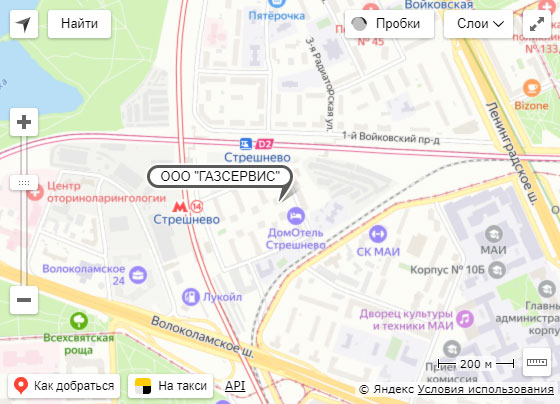
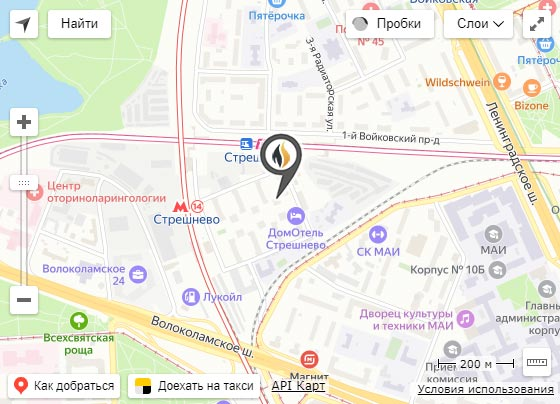
add custom placemark

diff --git a/src/blocks/common/contacts/contacts.js b/src/blocks/common/contacts/contacts.js
@@ -20,17 +20,14 @@ const init = () => {
     zoom: 15,
   });
 
-  const myPlacemark = new ymaps.Placemark(
-    [55.8138, 37.4909],
-    {
-      iconContent: 'ООО "ГАЗСЕРВИС"',
-    },
-    {
-      preset: 'islands#blackStretchyIcon',
-    },
-  );
+  const officePlacemark = new ymaps.Placemark([55.813876, 37.490827], {}, {
+    iconLayout: 'default#image',
+    iconImageHref: 'https://kotlo-servis.ru/wp-content/themes/kotlo-servis/img/contacts__office-icon.png',
+    iconImageSize: [50, 70],
+    iconImageOffset: [-20, -68],
+  });
 
-  myMap.geoObjects.add(myPlacemark);
+  myMap.geoObjects.add(officePlacemark);
   setMapCenter(myMap);
   return myMap;
 };
@@ -42,9 +39,11 @@ document.addEventListener('DOMContentLoaded', () => {
   function startLazyMap() {
     if (!mapLoaded) {
       mapLoaded = true;
-      const ymapApiScript = document.createElement('script');
-      ymapApiScript.setAttribute('src', 'https://api-maps.yandex.ru/2.1/?lang=ru_RU&apikey=a072abfb-f727-4a13-97a7-61fc775866d0');
-      mapContainer.appendChild(ymapApiScript);
+      if (typeof ymaps === 'undefined') {
+        const ymapApiScript = document.createElement('script');
+        ymapApiScript.setAttribute('src', 'https://api-maps.yandex.ru/2.1/?lang=ru_RU&apikey=a072abfb-f727-4a13-97a7-61fc775866d0&load=package.standard');
+        mapContainer.appendChild(ymapApiScript);
+      }
 
       setTimeout(() => {
         ymaps.ready(() => {

diff --git a/src/blocks/common/contacts/contacts.css b/src/blocks/common/contacts/contacts.css
@@ -137,3 +137,9 @@
     background-image: url('contacts__map_sub_649px.jpg');
   }
 }
+
+@media (max-width: 359px) {
+  .contacts {
+    grid-template-columns: 1fr 320px 1fr;
+  }
+}
